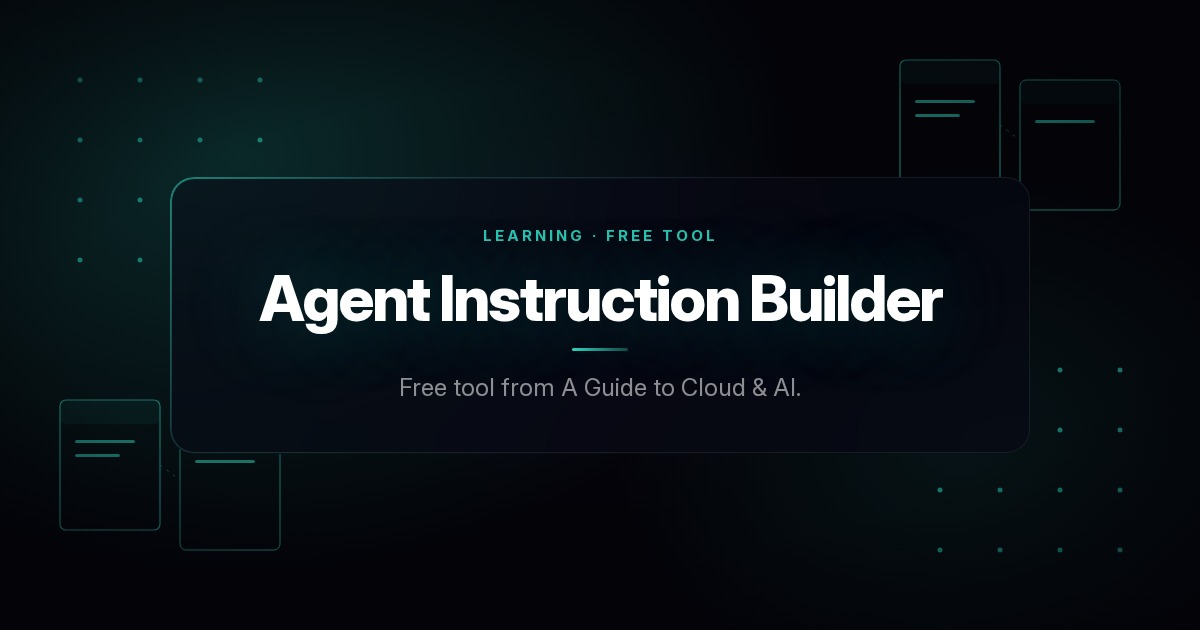
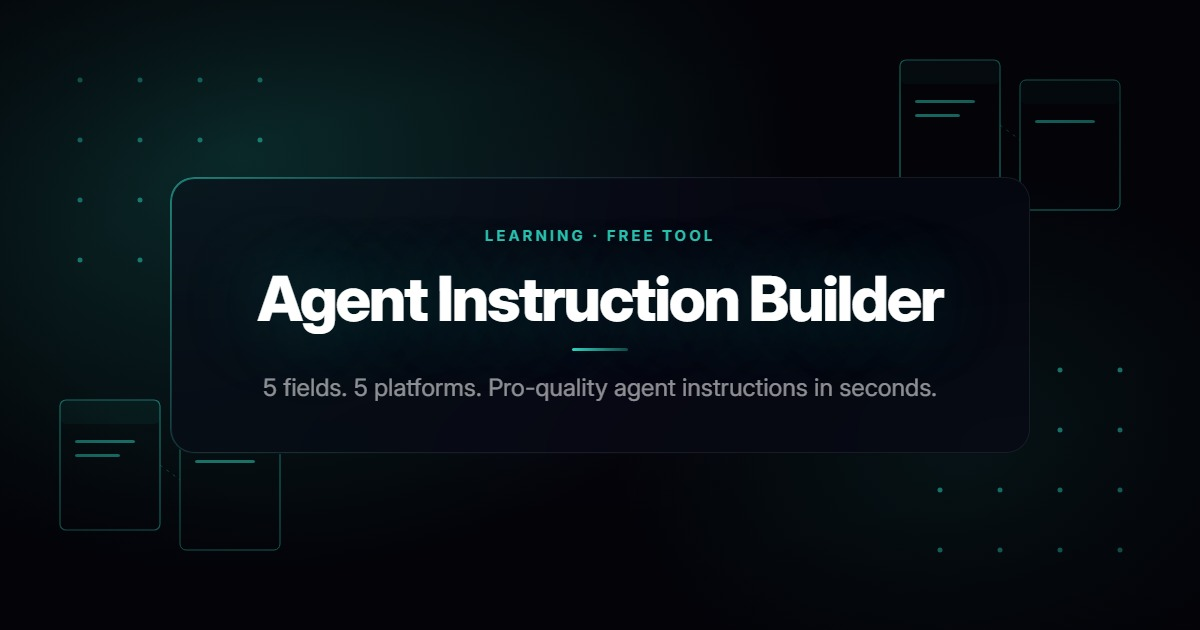
chore: Instruct Builder — preview image, OG, counter, tagline
- Homepage card preview image (17KB webp)
- OG social sharing image (53KB jpg)
- Hero counter badge (120 instructions generated)
- OG tagline for social cards
- Added to capture-tool-previews.py for future batch runs

diff --git a/scripts/capture-tool-previews.py b/scripts/capture-tool-previews.py
@@ -51,6 +51,7 @@ TOOLS = [
     ("security-toolkit", "/security-toolkit/"),
     ("site-analytics", "/site-analytics/"),
     ("cs-companion", "/cs-companion/"),
+    ("instruct-builder", "/instruct-builder/"),
 ]
 
 WIDTH = 1280
